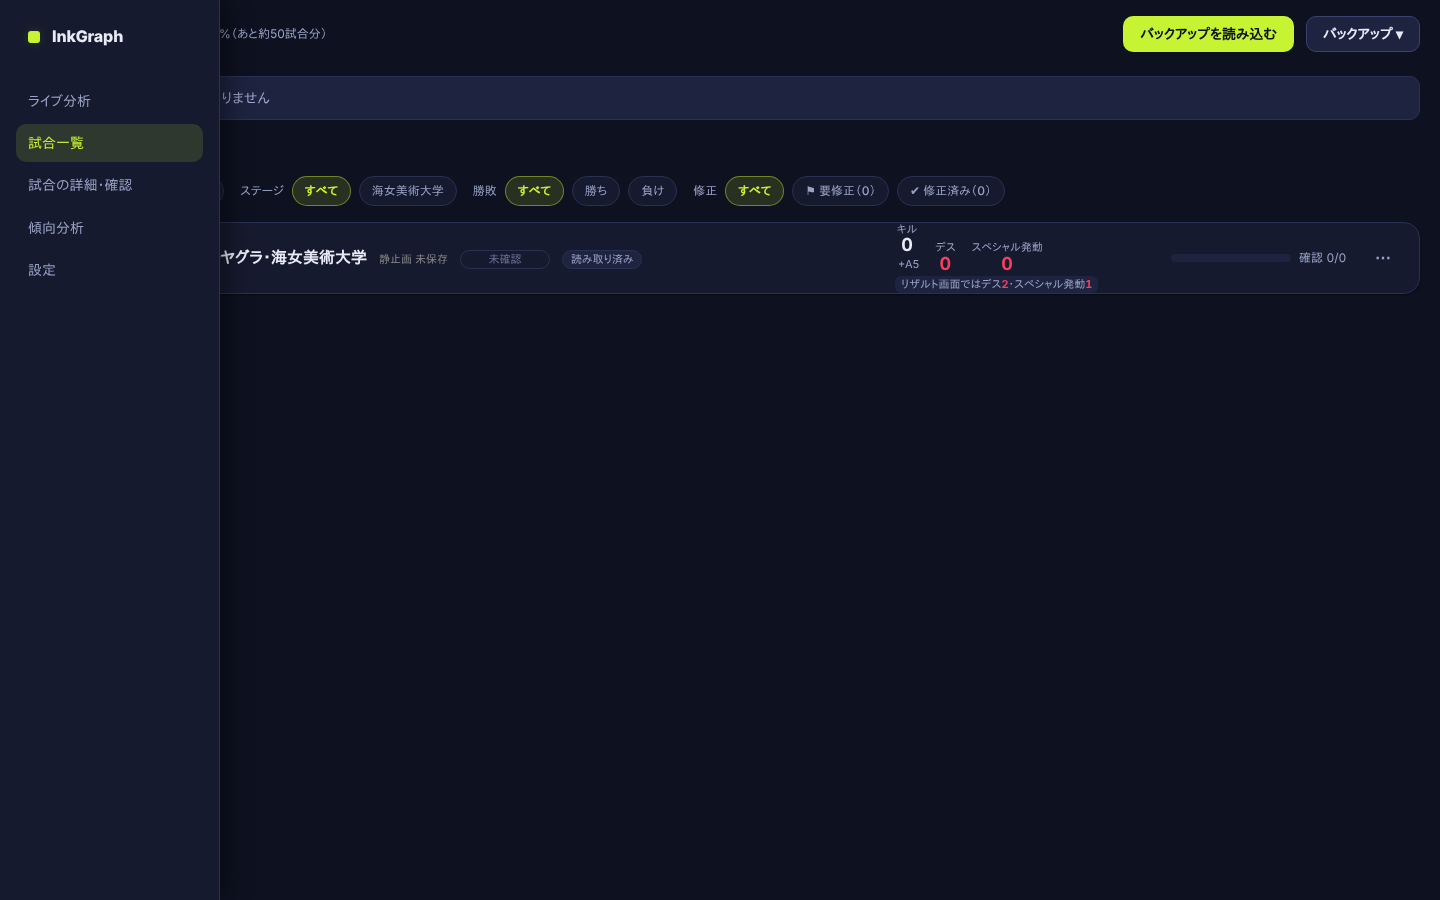
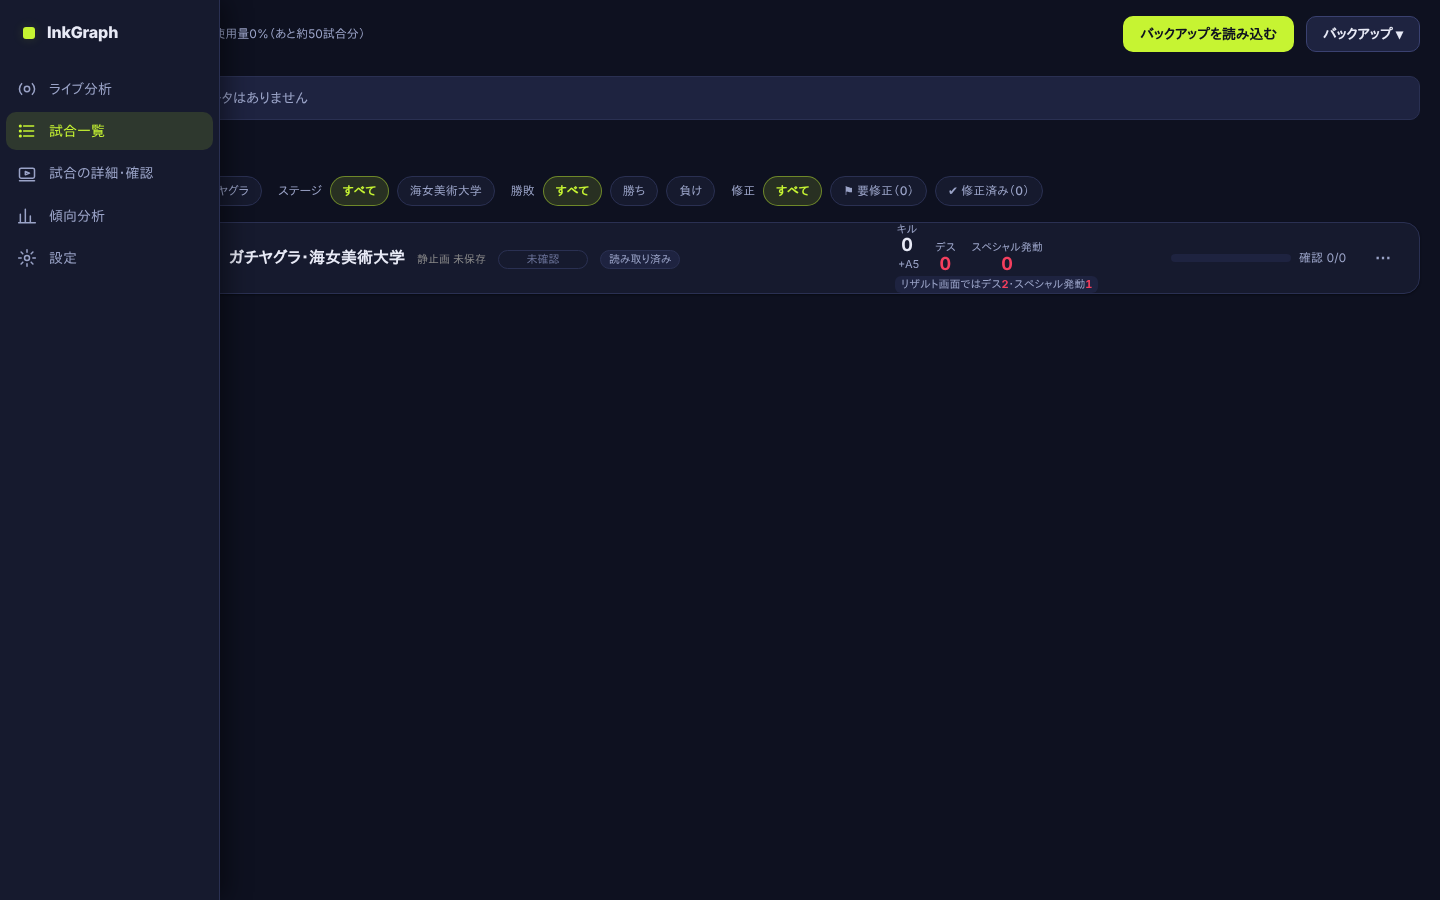
サイドバーは、普段はアイコンだけを並べ、マウスオーバーで文字つきに広げる (D90)
Claude-Session: https://claude.ai/code/session_018zsqgbHNLDpb8cVTBpk5SR

diff --git a/web/index.html b/web/index.html
@@ -15,11 +15,11 @@
         <span class="brand-name">InkGraph</span>
       </div>
       <nav aria-label="メインナビゲーション">
-        <a href="#live" data-page="live" aria-current="page">ライブ分析</a>
-        <a href="#list" data-page="list">試合一覧</a>
-        <a href="#match" data-page="match">試合の詳細・確認</a>
-        <a href="#trend" data-page="trend">傾向分析</a>
-        <a href="#settings" data-page="settings">設定</a>
+        <a href="#live" data-page="live" aria-current="page"><svg class="nav-ico" viewBox="0 0 24 24" width="20" height="20" fill="none" stroke="currentColor" stroke-width="1.8" stroke-linecap="round" stroke-linejoin="round" aria-hidden="true"><circle cx="12" cy="12" r="3.2"/><path d="M5.6 5.6a9 9 0 0 0 0 12.8M18.4 5.6a9 9 0 0 1 0 12.8"/></svg><span class="nav-label">ライブ分析</span></a>
+        <a href="#list" data-page="list"><svg class="nav-ico" viewBox="0 0 24 24" width="20" height="20" fill="none" stroke="currentColor" stroke-width="1.8" stroke-linecap="round" stroke-linejoin="round" aria-hidden="true"><path d="M8 6h12M8 12h12M8 18h12"/><circle cx="4" cy="6" r="1"/><circle cx="4" cy="12" r="1"/><circle cx="4" cy="18" r="1"/></svg><span class="nav-label">試合一覧</span></a>
+        <a href="#match" data-page="match"><svg class="nav-ico" viewBox="0 0 24 24" width="20" height="20" fill="none" stroke="currentColor" stroke-width="1.8" stroke-linecap="round" stroke-linejoin="round" aria-hidden="true"><rect x="3" y="5" width="18" height="12" rx="2"/><path d="M10 9l5 2-5 2z"/><path d="M3 20h18"/></svg><span class="nav-label">試合の詳細・確認</span></a>
+        <a href="#trend" data-page="trend"><svg class="nav-ico" viewBox="0 0 24 24" width="20" height="20" fill="none" stroke="currentColor" stroke-width="1.8" stroke-linecap="round" stroke-linejoin="round" aria-hidden="true"><path d="M4 20V10M10 20V4M16 20v-8M22 20H2"/></svg><span class="nav-label">傾向分析</span></a>
+        <a href="#settings" data-page="settings"><svg class="nav-ico" viewBox="0 0 24 24" width="20" height="20" fill="none" stroke="currentColor" stroke-width="1.8" stroke-linecap="round" stroke-linejoin="round" aria-hidden="true"><circle cx="12" cy="12" r="3"/><path d="M12 2v3M12 19v3M2 12h3M19 12h3M4.9 4.9L7 7M17 17l2.1 2.1M19.1 4.9L17 7M7 17l-2.1 2.1"/></svg><span class="nav-label">設定</span></a>
       </nav>
     </aside>
     <main class="main" id="app"></main>

diff --git a/web/src/style.css b/web/src/style.css
@@ -2295,18 +2295,24 @@ tr.added td {
   .detail-body.has-rec .rv-scroll { display: contents; }
 }
 
-/* D90: 画面領域を広く。サイドメニューは、左端の細い帯にマウスを乗せたときだけ開く（内容の上に重ねる。キーボードで移動したときも開く）。
-   狭い画面（820px 以下）は、これまでどおり上の帯 */
+/* D90: 画面領域を広く。サイドメニューは、普段は左端の細い帯にアイコンだけを並べ、マウスを乗せたときだけ広がる（内容の上に重ねる。キーボードで移動したときも広がる）。
+   狭い画面（820px 以下）は、これまでどおり上の帯（文字のみ） */
+:root { --rail-w: 52px; }
+.nav-ico { flex: none; }
 @media (min-width: 821px) {
-  .app { display: block; padding-left: 14px; }
+  .app { display: block; padding-left: var(--rail-w); }
   .sidenav {
-    position: fixed; left: 0; top: 0; height: 100vh; width: var(--nav-w); z-index: 60;
-    transform: translateX(calc(-100% + 14px)); transition: transform .14s ease-out; box-shadow: none;
-    border-right: 3px solid var(--accent-soft);
+    position: fixed; left: 0; top: 0; height: 100vh; width: var(--rail-w); z-index: 60; padding: var(--sp-3) 6px; gap: var(--sp-4);
+    transition: width .14s ease-out; overflow: hidden;
   }
-  .sidenav:hover, .sidenav:focus-within { transform: none; box-shadow: 6px 0 24px rgba(0, 0, 0, .45); border-right-width: 1px; }
+  .sidenav .brand { padding: var(--sp-2) 0 var(--sp-2) 17px; }
+  .sidenav a { padding: var(--sp-2) 0 var(--sp-2) 11px; }
+  .sidenav .brand-name, .sidenav .nav-label { transition: opacity .12s; white-space: nowrap; }
+  .sidenav:not(:hover):not(:focus-within) .brand-name, .sidenav:not(:hover):not(:focus-within) .nav-label { opacity: 0; }
+  .sidenav:hover, .sidenav:focus-within { width: var(--nav-w); box-shadow: 6px 0 24px rgba(0, 0, 0, .45); }
   .main { max-width: none; padding: var(--sp-4) var(--sp-5); }
 }
+@media (max-width: 820px) { .nav-ico { display: none; } }
 
 /* 詳細画面のヘッダーをコンパクトに（1 行にまとめ、数字の箱を小さく）。幅の上限もなくす */
 .main:has(.detail-header-card) { max-width: none; padding: var(--sp-3) var(--sp-4); }

diff --git a/docs/DECISIONS.md b/docs/DECISIONS.md
@@ -956,7 +956,7 @@
 - 未検証：実機の Windows・実際の画面サイズでの見た目（録画の幅 640px・出来事の列幅・タイムラインの高さは、見て調整する）。
 
 ## D90 (2026-10-30) 画面領域を広く: サイドメニューは「マウスオーバーでだけ開く」、詳細画面のヘッダーをコンパクトに
-- サイドメニュー（幅 821px 以上）：普段は左端の細い帯（14px・アクセント色の縁）だけ。**マウスを乗せると開く**（内容の上に重ねて表示し、内容は動かない。キーボードで移動したときも開く）。820px 以下は、これまでどおり上の帯。内容の幅の上限（1440px）はなくし、余白も詰めた。
+- サイドメニュー（幅 821px 以上）：普段は左端の細い帯（52px）に、**アイコンだけを縦に並べる**（現在のページは色つき）。**マウスを乗せると、文字つきに広がる**（内容の上に重ねて表示し、内容は動かない。キーボードで移動したときも広がる）。820px 以下は、これまでどおり上の帯。内容の幅の上限（1440px）はなくし、余白も詰めた。
 - 詳細画面のヘッダー：「勝敗・ルール・ステージ・マッチタイプ・パワー・カウント」を 1 行にまとめ、キル／デス／スペシャルの箱を小さく（ラベルと数字を横並び）、ページの見出しも小さくした。静止画の案内（「静止画 削除済み…」）と、キルのアシスト推定の補足は、ヘッダーから外した。カード間の余白・内側の余白も詰めた。
 - 1920x1080 で、ヘッダー＋上段（録画｜出来事｜確認パネル）＋タイムライン＋凡例が、スクロールなしで収まることを確認した。
 - テスト：`session_keepalive_check`（サイドメニューは、左端にマウスを乗せてから押す）。
